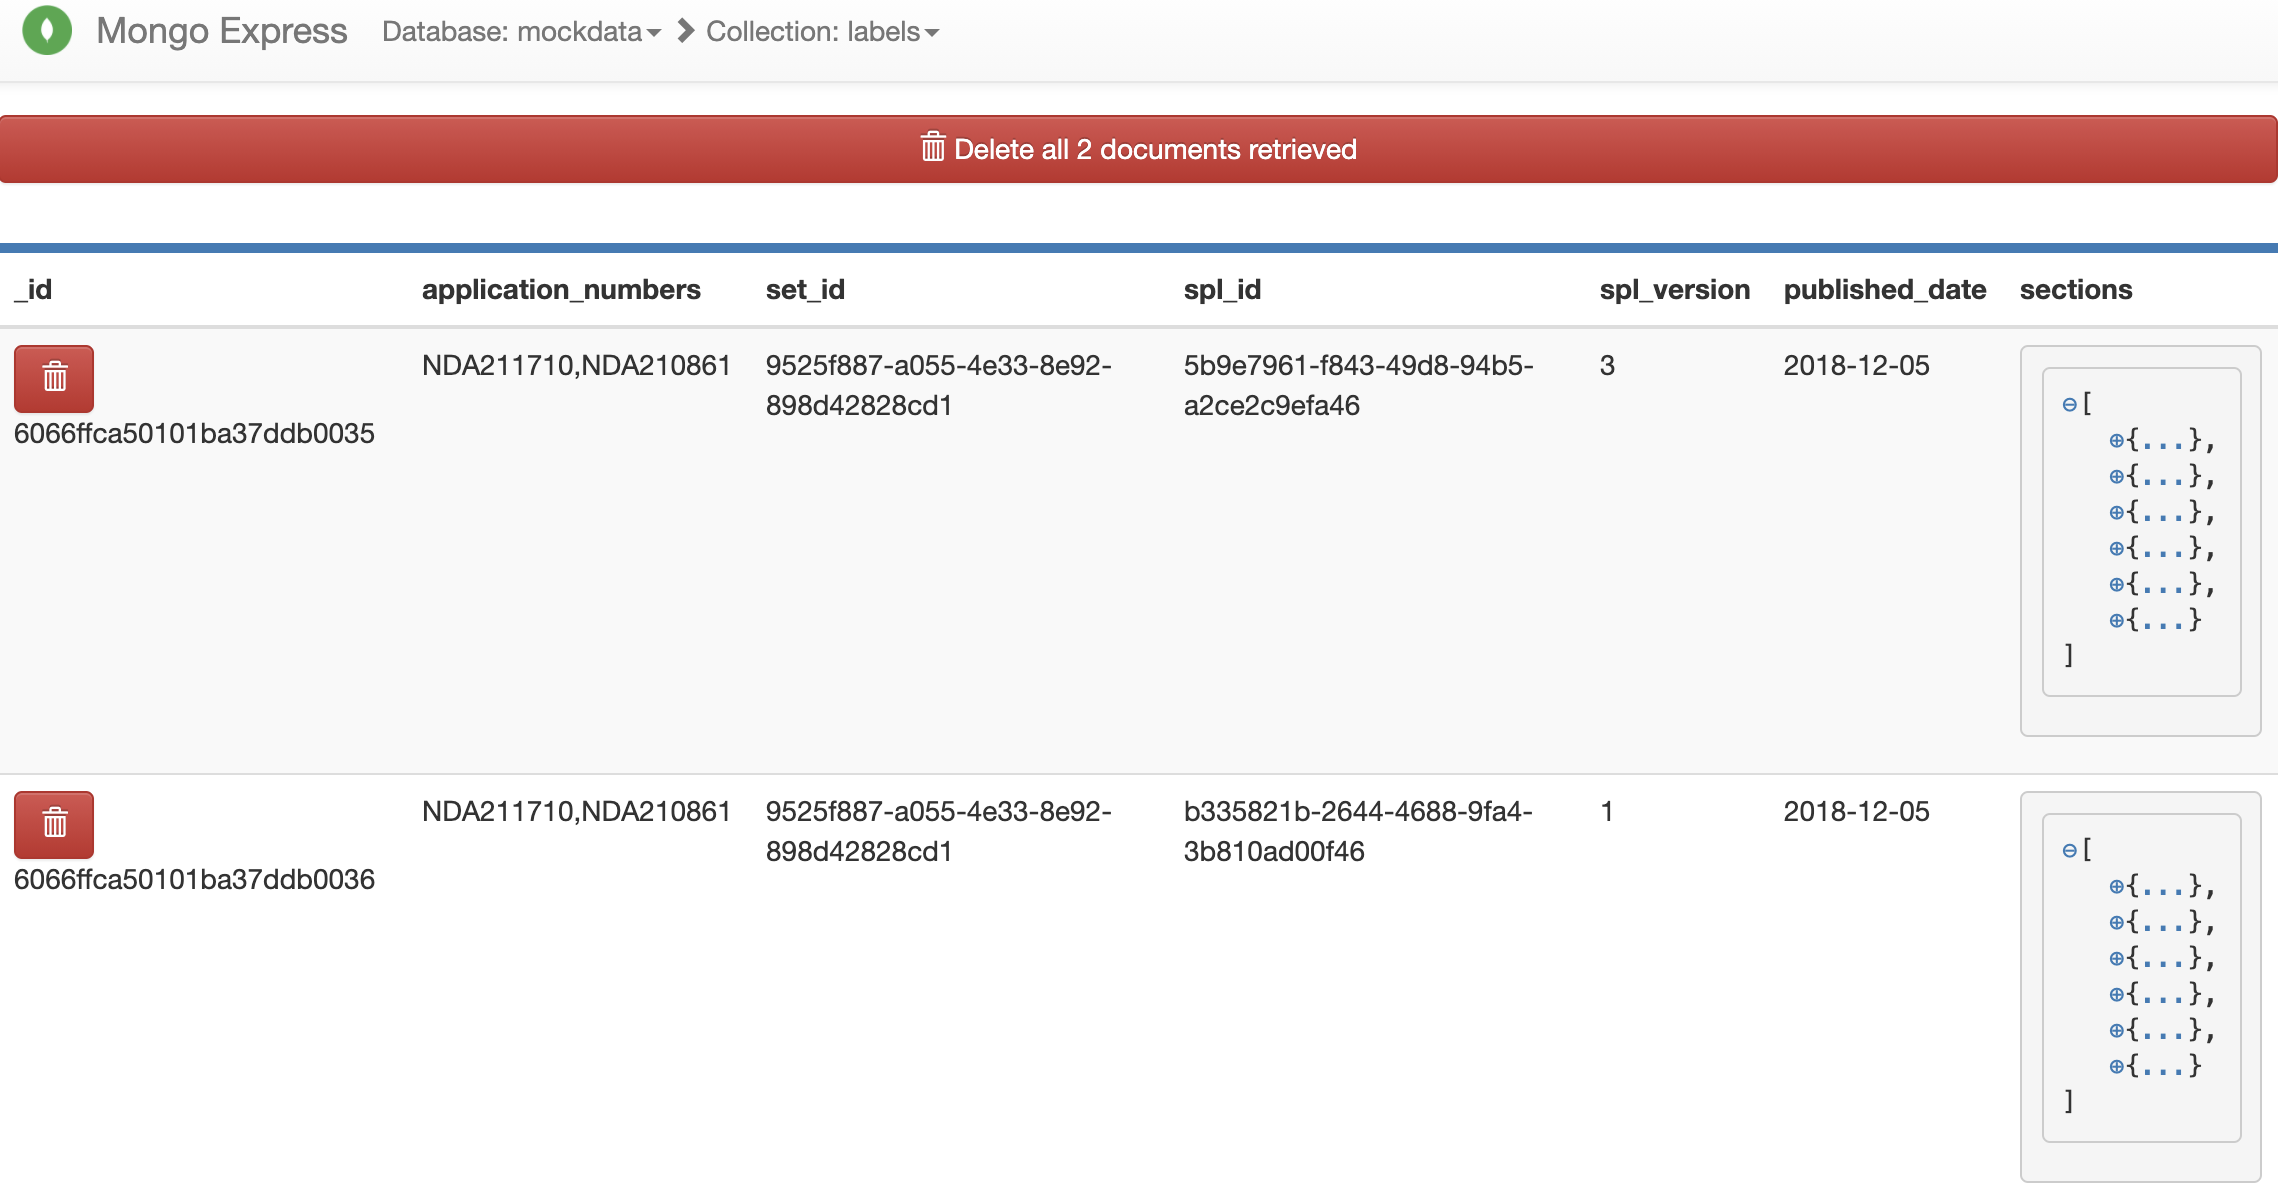
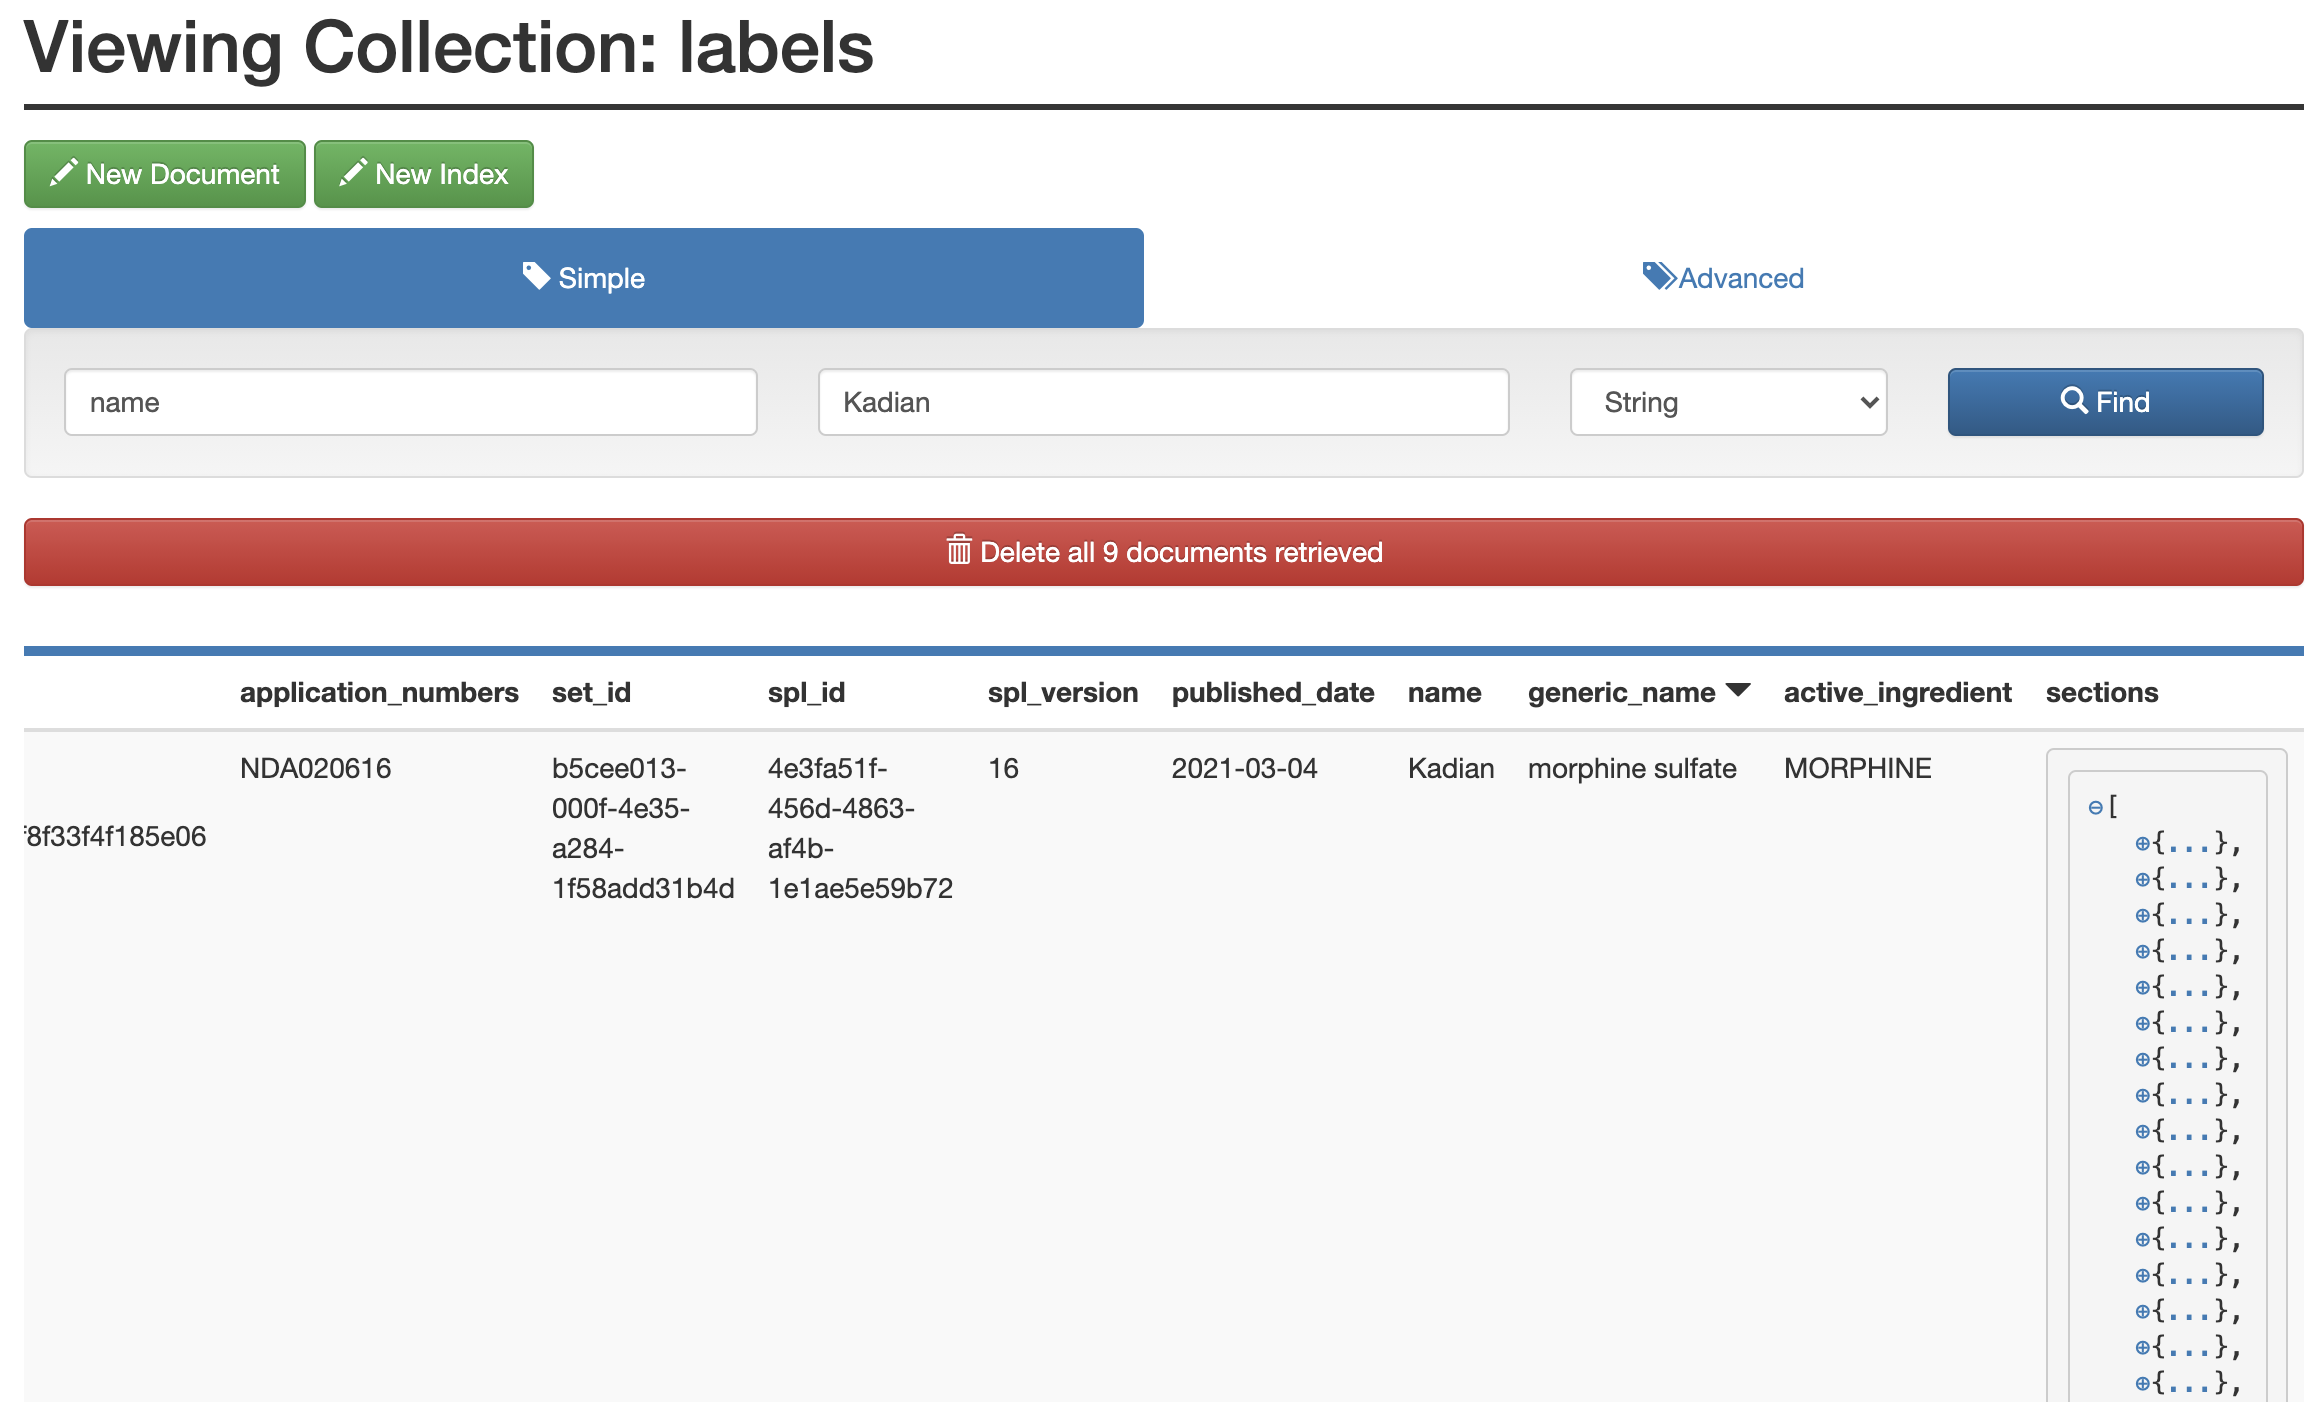
Add drug name and active ingredient info to the labels (#11)
* Get drug name, active ingredients and generic name

* Take only active ingredient info

* Update README

diff --git a/spl/labels.py b/spl/labels.py
@@ -161,6 +161,13 @@ class SplHistoricalLabels:
                         "spl_id": Path(xml_file_name).name[:-4],
                         "spl_version": self.__get_spl_version(bs_content),
                         "published_date": self.__get_published_date(bs_content),
+                        "name": self.__get_drug_name(set_id, bs_content),
+                        "generic_name": self.__get_generic_name(
+                            set_id, bs_content
+                        ),
+                        "active_ingredient": self.__get_active_ingredient(
+                            set_id, bs_content
+                        ),
                         "sections": self.__get_label_text(set_id, bs_content),
                     }
                 )
@@ -193,6 +200,57 @@ class SplHistoricalLabels:
             )
         return list(application_numbers)
 
+    def __get_drug_name(self, set_id, bs_content):
+        drug_name = ""
+        try:
+            product = (
+                bs_content.document.component.structuredbody.component.find(
+                    "manufacturedproduct"
+                )
+            )
+            if product.find("manufacturedproduct"):
+                product = product.manufacturedproduct
+            else:
+                # Legacy format
+                product = product.manufacturedmedicine
+            drug_name = product.find("name").text.replace("\n", "")
+        except Exception as e:
+            _logger.error(f"Error in __get_drug_name for set ID {set_id}: {e}")
+        return drug_name
+
+    def __get_generic_name(self, set_id, bs_content):
+        generic_name = ""
+        try:
+            generic_name = (
+                bs_content.document.component.structuredbody.component.find(
+                    "manufacturedproduct"
+                )
+                .asentitywithgeneric.genericmedicine.find("name")
+                .text.replace("\n", "")
+            )
+        except Exception as e:
+            _logger.error(
+                f"Error in __get_generic_name for set ID {set_id}: {e}"
+            )
+        return generic_name
+
+    def __get_active_ingredient(self, set_id, bs_content):
+        active_ingredient = ""
+        try:
+            active_ingredient = (
+                bs_content.document.component.structuredbody.component.find(
+                    "manufacturedproduct"
+                )
+                .find("activemoiety")
+                .find("name")
+                .text.replace("\n", "")
+            )
+        except Exception as e:
+            _logger.error(
+                f"Error in __get_active_ingredient for set ID {set_id}: {e}"
+            )
+        return active_ingredient
+
     def __get_label_text(self, set_id, bs_content):
         def get_xml_text(text):
             # Process the label text; normalize remove nbsp
@@ -213,9 +271,9 @@ class SplHistoricalLabels:
 
         for title in titles:
             # For matching:
-            # * Convert title text to upper case
-            # * Replace & with AND, tab with space
-            # * Clean up Unicode characters, digits, punctuation
+            # - Convert title text to upper case
+            # - Replace & with AND, tab with space
+            # - Clean up Unicode characters, digits, punctuation
             title_match_text = cleantext.clean(
                 title.text.upper().replace("&", "AND").replace("\t", " "),
                 lower=False,

diff --git a/README.md b/README.md
@@ -3,6 +3,10 @@ Scripts to download in bulk and process the drug labels data from DailyMed.
 
 For a given SPL index start page and number of pages of the index to process (or) a pre-configured list of DailyMed Set IDs, the scripts parse and obtain the historical set id data and label data for each SPL version. If at least one version of a label set has an association to an NDA application number, the processed labels from the Set ID are saved to MongoDB.
 
+## Data Schema
+
+![Label Schema](./assets/label_data.png)
+
 ## MongoDB Set Up
 The connection info for the Mongo DB instance is set in the `.env` file. This should work for a standard MongoDB set up on localhost. If using a different set of DB configs, this file must be updated.
 
